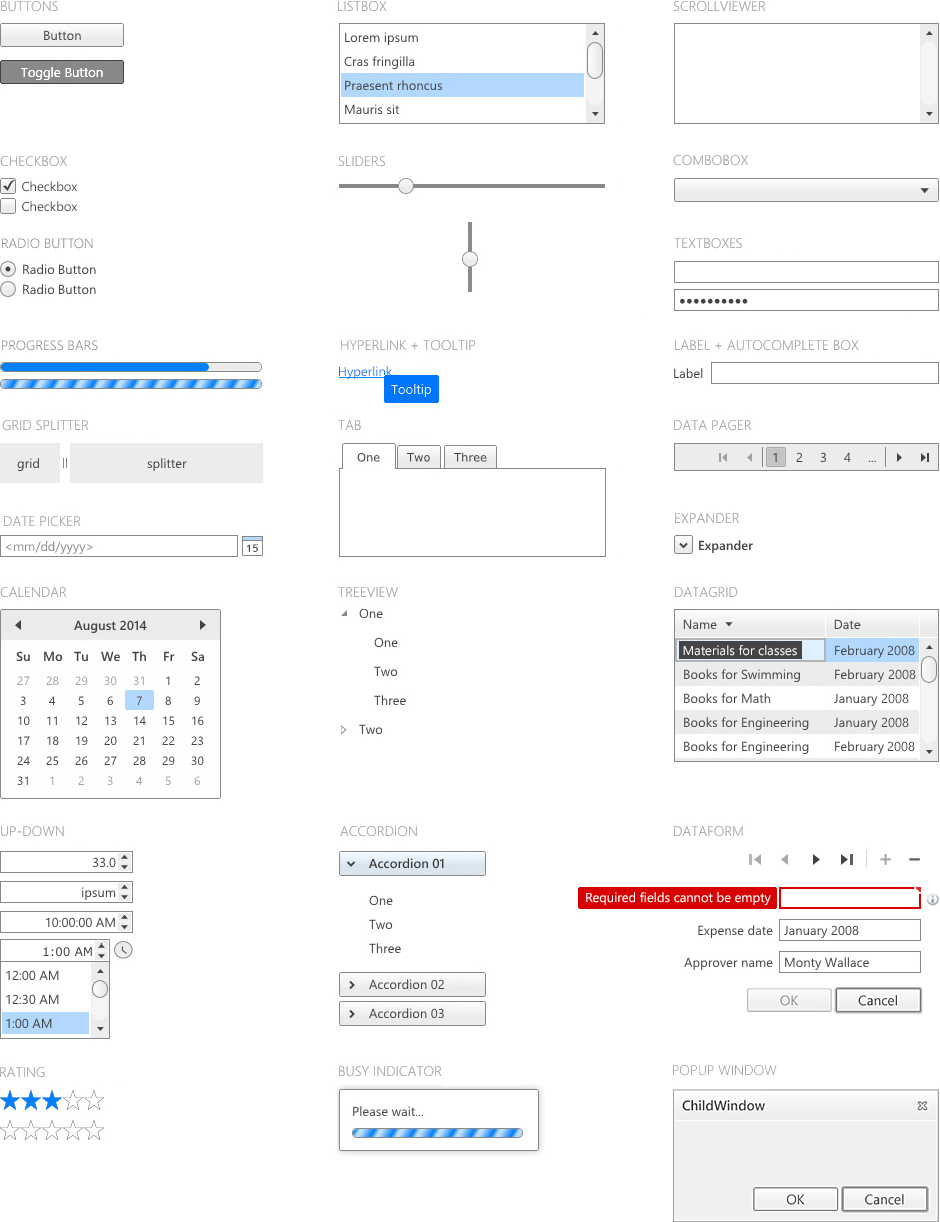
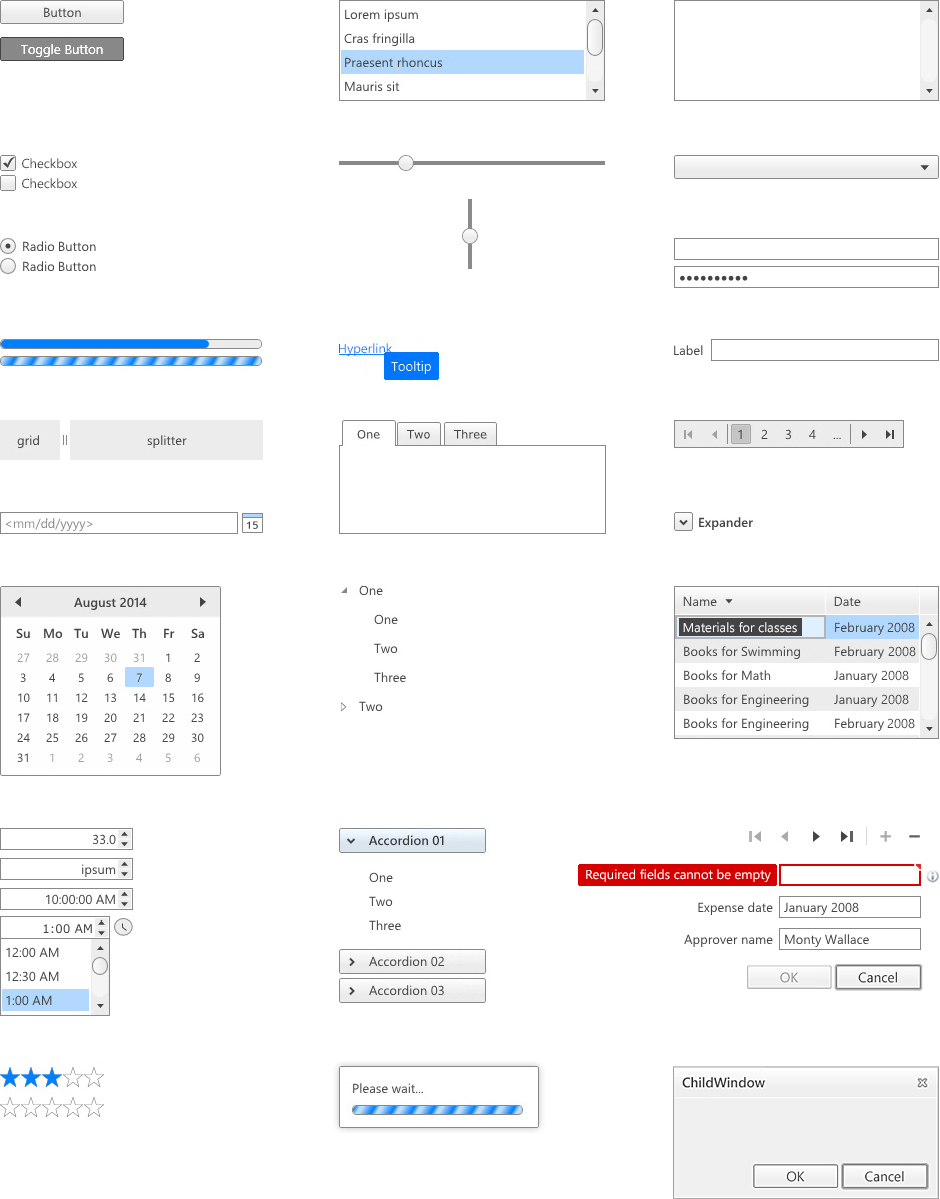
Updated SL Image (got rid of labels :))

diff --git a/app/partials/ria.html b/app/partials/ria.html
@@ -36,7 +36,7 @@
             <p class="New_BodyText_Header2">Expansive Control Set</p>
             <p class="New_BodyText2">Design direction/lead for interaction, visuals, and motion</p>
             <div class="BodyImgs">
-                <img class="ResizableImg" src="images/SLRIA_Controls.jpg" width="940" height="1222" />
+                <img class="ResizableImg" src="images/SLRIA_Controls.jpg" width="940" height="1199" />
             </div>
         </div>
 
